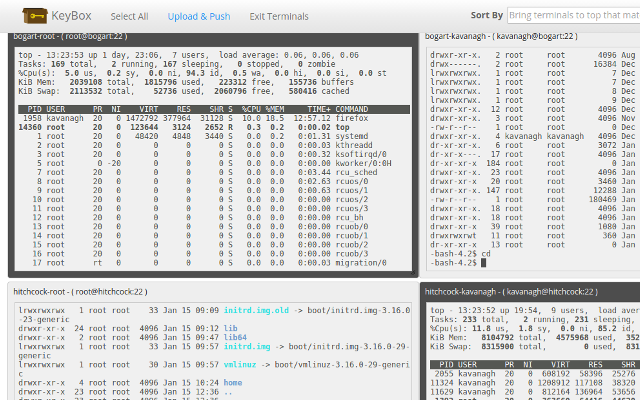
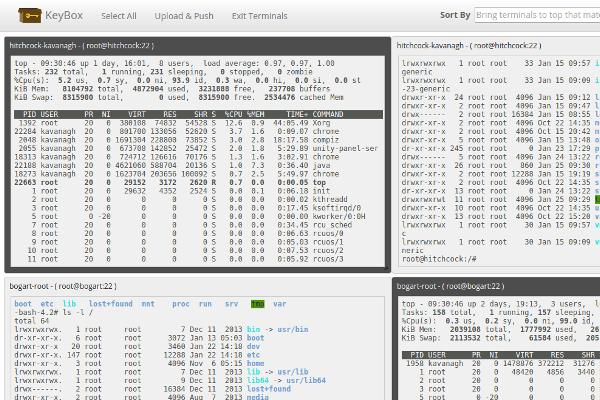
updated screen shots

diff --git a/index.html b/index.html
@@ -15,7 +15,6 @@
 
     <!-- Bootstrap core CSS -->
     <link href="css/bootstrap.css" type="text/css" rel="stylesheet"/>
-    <link href="css/keybox.css" type="text/css" rel="stylesheet"/>
 
     <!-- Just for debugging purposes. Don't actually copy this line! -->
     <!--[if lt IE 9]>
@@ -29,6 +28,7 @@
 
     <!-- Custom styles for this template -->
     <link href="css/carousel.css" type="text/css" rel="stylesheet"/>
+    <link href="css/keybox.css" type="text/css" rel="stylesheet"/>
 
     <style type="text/css">
         .carousel-caption {
@@ -160,7 +160,7 @@
 
             <div class="container">
                 <div class="carousel-caption">
-                    <h1><b>Manage &amp; Distribute Public SSH Keys</b></h1>
+                    <h1><b>Manage Public SSH Keys</b></h1>
 
                     <p>Define, manage, and distribute public SSH keys to defined systems</p>
 
@@ -265,8 +265,8 @@
                 manage and distribute public keys that have been setup and defined.</p>
         </div>
         <div class="col-md-5">
-            <img class="featurette-image img-responsive" data-src="img/500x500/terminals.png/500x500/auto"
-                 src="img/500x500/terminals.png" alt="Composite SSH Terminals"/></img>
+            <img class="featurette-image img-responsive" data-src="img/500x300/terminals.png/500x300/auto"
+                 src="img/500x300/terminals.png" alt="Composite SSH Terminals"/></img>
         </div>
     </div>
 
@@ -283,8 +283,8 @@
 
         </div>
         <div class="col-md-5" style="float:left;">
-            <img class="featurette-image img-responsive" data-src="img/500x500/select_terminal_windows.png/500x500/auto"
-                 src="img/500x500/select_terminal_windows.png" alt="Select Invidual Terminals"/></img>
+            <img class="featurette-image img-responsive" data-src="img/500x300/select_terminal_windows.png/500x300/auto"
+                 src="img/500x300/select_terminal_windows.png" alt="Select Invidual Terminals"/></img>
         </div>
     </div>
     
@@ -298,10 +298,10 @@
 
             <p class="lead">Supports Two-Factor via <a href="https://fedorahosted.org/freeotp" target="_blank">FreeOTP</a> or <a href="https://github.com/google/google-authenticator" target="_blank">Google Authenticator</a> on your Android or iOS device.</p>
             <div class="panel panel-default">
-            <table class="table table-striped table-hover">
+            <table class="table table-striped table-hover small">
                 <thead>
                 <tr>
-                    <th colspan="2">FreeOTP</th>
+                    <th colspan="2" class="info">FreeOTP</th>
                 </tr>
                 </thead>
                 <tbody>
@@ -316,7 +316,7 @@
                 </tbody>
                 <thead>
                 <tr>
-                    <th colspan="2">Google Authenticator</th>
+                    <th colspan="2" class="info">Google Authenticator</th>
                 </tr>
                 </thead>
                 <tbody>
@@ -334,8 +334,8 @@
 
         </div>
         <div class="col-md-5">
-            <img class="featurette-image img-responsive" data-src="img/500x500/manage_users.png/500x500/auto"
-                 src="img/500x500/two-factor.png" alt="Two-Factor Authentication"/></img>
+            <img class="featurette-image img-responsive" data-src="img/500x300/manage_users.png/500x300/auto"
+                 src="img/500x300/two-factor.png" alt="Two-Factor Authentication"/></img>
         </div>
     </div>
     
@@ -353,8 +353,8 @@
 
         </div>
         <div class="col-md-5" style="float:left;">
-            <img class="featurette-image img-responsive" data-src="img/500x500/manage_users.png/500x500/auto"
-                 src="img/500x500/manage_users.png" alt="Manage Users"/></img>
+            <img class="featurette-image img-responsive" data-src="img/500x300/manage_users.png/500x300/auto"
+                 src="img/500x300/manage_users.png" alt="Manage Users"/></img>
         </div>
     </div>
 
@@ -363,15 +363,16 @@
         <div class="col-md-7">
             <a name="public_keys"></a>
 
-            <h2 class="featurette-heading">Manage &amp; distribute public SSH keys</h2>
+            <h2 class="featurette-heading">Manage, distribute, &amp; disable public SSH keys</h2>
 
             <p class="lead">KeyBox works through the authorized_keys file on systems that are registered. Assign and
-                manage public SSH keys for users. Define keys and apply them to all systems or a system profile.</p>
+                manage public SSH keys for users. Define keys and apply them to all systems or a system profile. 
+                "Full Access" users can review and disable any administrative key forcing rotation.  </p>
 
         </div>
         <div class="col-md-5">
-            <img class="featurette-image img-responsive" data-src="img/500x500/define_public_keys.png/500x500/auto"
-                 src="img/500x500/define_public_keys.png" alt="Manage SSH Public Keys"/></img>
+            <img class="featurette-image img-responsive" data-src="img/500x300/disable_keys.png/500x300/auto"
+                 src="img/500x300/disable_keys.png" alt="Manage SSH Public Keys"/></img>
         </div>
     </div>
 
@@ -383,12 +384,12 @@
             <h2 class="featurette-heading">Audit SSH sessions</h2>
 
             <p class="lead">Users with full-privileges may audit other administrative user sessions. Ensure systems are
-                managed within organizational guidelines. </p>
+                managed within organizational guidelines. (Disabled by default) </p>
 
         </div>
         <div class="col-md-5" style="float:left;">
-            <img class="featurette-image img-responsive" data-src="img/500x500/audit_sessions.png/500x500/auto"
-                 src="img/500x500/audit_sessions.png" alt="Audit SSH Sessions"/></img>
+            <img class="featurette-image img-responsive" data-src="img/500x300/audit_sessions.png/500x300/auto"
+                 src="img/500x300/audit_sessions.png" alt="Audit SSH Sessions"/></img>
         </div>
     </div>
 
@@ -441,8 +442,8 @@
 
         </div>
         <div class="col-md-5" style="float:right;">
-            <img class="featurette-image img-responsive" data-src="img/500x500/ec2box.png/500x500/auto"
-                 src="img/500x500/ec2box.png" alt="EC2Box: Web-based SSH console for AWS EC2"/></img>
+            <img class="featurette-image img-responsive" data-src="img/500x300/ec2box.png/500x300/auto"
+                 src="img/500x300/ec2box.png" alt="EC2Box: Web-based SSH console for AWS EC2"/></img>
         </div>
     </div>
 
@@ -462,8 +463,8 @@
 
         </div>
         <div class="col-md-5" >
-            <img class="featurette-image img-responsive" data-src="img/500x500/keybox-openshift.png/500x500/auto"
-                 src="img/500x500/keybox-openshift.png" alt="KeyBox-OpenShift: Web-based SSH console for OpenShfit"/></img>
+            <img class="featurette-image img-responsive" data-src="img/500x300/keybox-openshift.png/500x300/auto"
+                 src="img/500x300/keybox-openshift.png" alt="KeyBox-OpenShift: Web-based SSH console for OpenShfit"/></img>
         </div>
     </div>
 
@@ -475,27 +476,25 @@
 
     <!-- FOOTER -->
     <footer>
-        <p>
         <table>
             <tr>
                 <td>
-                    <iframe src="http://ghbtns.com/github-btn.html?user=skavanagh&repo=KeyBox&type=watch&count=true&size=large"
-                            height="30" width="170" frameborder="0" scrolling="0" style="width:170px; height: 30px;"
+                    <iframe src="http://ghbtns.com/github-btn.html?user=skavanagh&repo=KeyBox&type=watch&count=true"
+                            height="30" width="100" frameborder="0" scrolling="0" style="width:100px; height: 30px;"
                             allowTransparency="true"></iframe>
                 </td>
                 <td>
-                    <iframe src="http://ghbtns.com/github-btn.html?user=skavanagh&repo=KeyBox&type=fork&count=true&size=large"
-                            height="30" width="170" frameborder="0" scrolling="0" style="width:170px; height: 30px;"
+                    <iframe src="http://ghbtns.com/github-btn.html?user=skavanagh&repo=KeyBox&type=fork&count=true"
+                            height="30" width="100" frameborder="0" scrolling="0" style="width:100px; height: 30px;"
                             allowTransparency="true"></iframe>
                 </td>
                 <td>
-                    <iframe src="http://ghbtns.com/github-btn.html?user=skavanagh&type=follow&count=true&size=large"
-                            height="30" width="240" frameborder="0" scrolling="0" style="width:240px; height: 30px;"
+                    <iframe src="http://ghbtns.com/github-btn.html?user=skavanagh&type=follow&count=true"
+                            height="30" width="168" frameborder="0" scrolling="0" style="width:168px; height: 30px;"
                             allowTransparency="true"></iframe>
                 </td>
             </tr>
         </table>
-        </p>
         <p class="pull-right"><a href="#">Back to top</a></p>
 
         <p>&copy; 2014 Sean Kavanagh</p>

diff --git a/css/keybox.css b/css/keybox.css
@@ -8,3 +8,17 @@
 .nav li iframe {
     padding-top: 10px;
 }
+
+.featurette-heading {
+    margin: 8px 0;
+    font-size: 25px;
+}
+.featurette-divider {
+    margin: 25px 0;
+    
+}
+
+.lead {
+    font-size: 18px;
+    
+}
